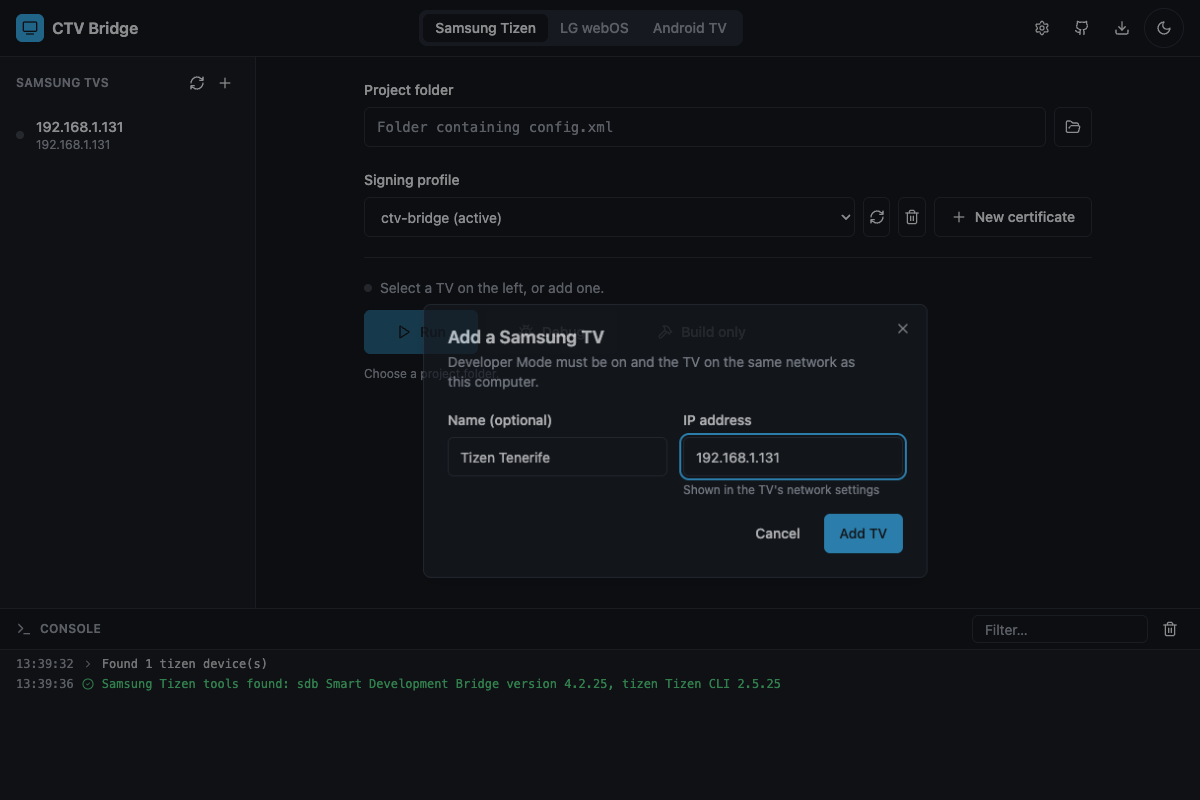
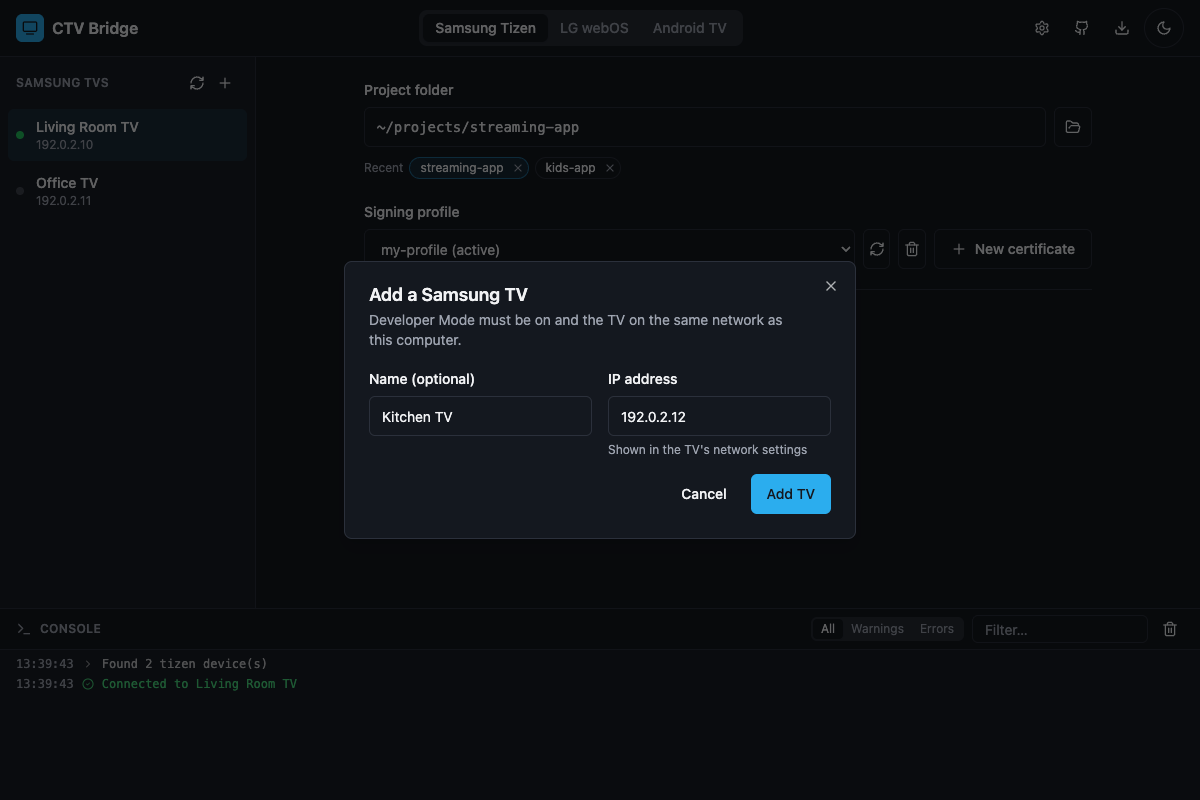
docs: README screenshots with made-up data
The setup and Add TV screenshots showed a real device name and local network
address. They are now rendered from the demo mock (bun run demo:screenshots).

diff --git a/README.md b/README.md
@@ -168,6 +168,7 @@ bun install      # install dependencies
 bun run dev      # run the app in development mode
 bun run build    # build installers for your OS
 bun run demo:record  # re-record the README demo GIF (needs ffmpeg; uses made-up data)
+bun run demo:screenshots  # re-render the README screenshots (made-up data)
 ```
 
 Contributions are welcome. See the [Contributing Guide](CONTRIBUTING.md) and use [Conventional Commits](https://www.conventionalcommits.org/).
